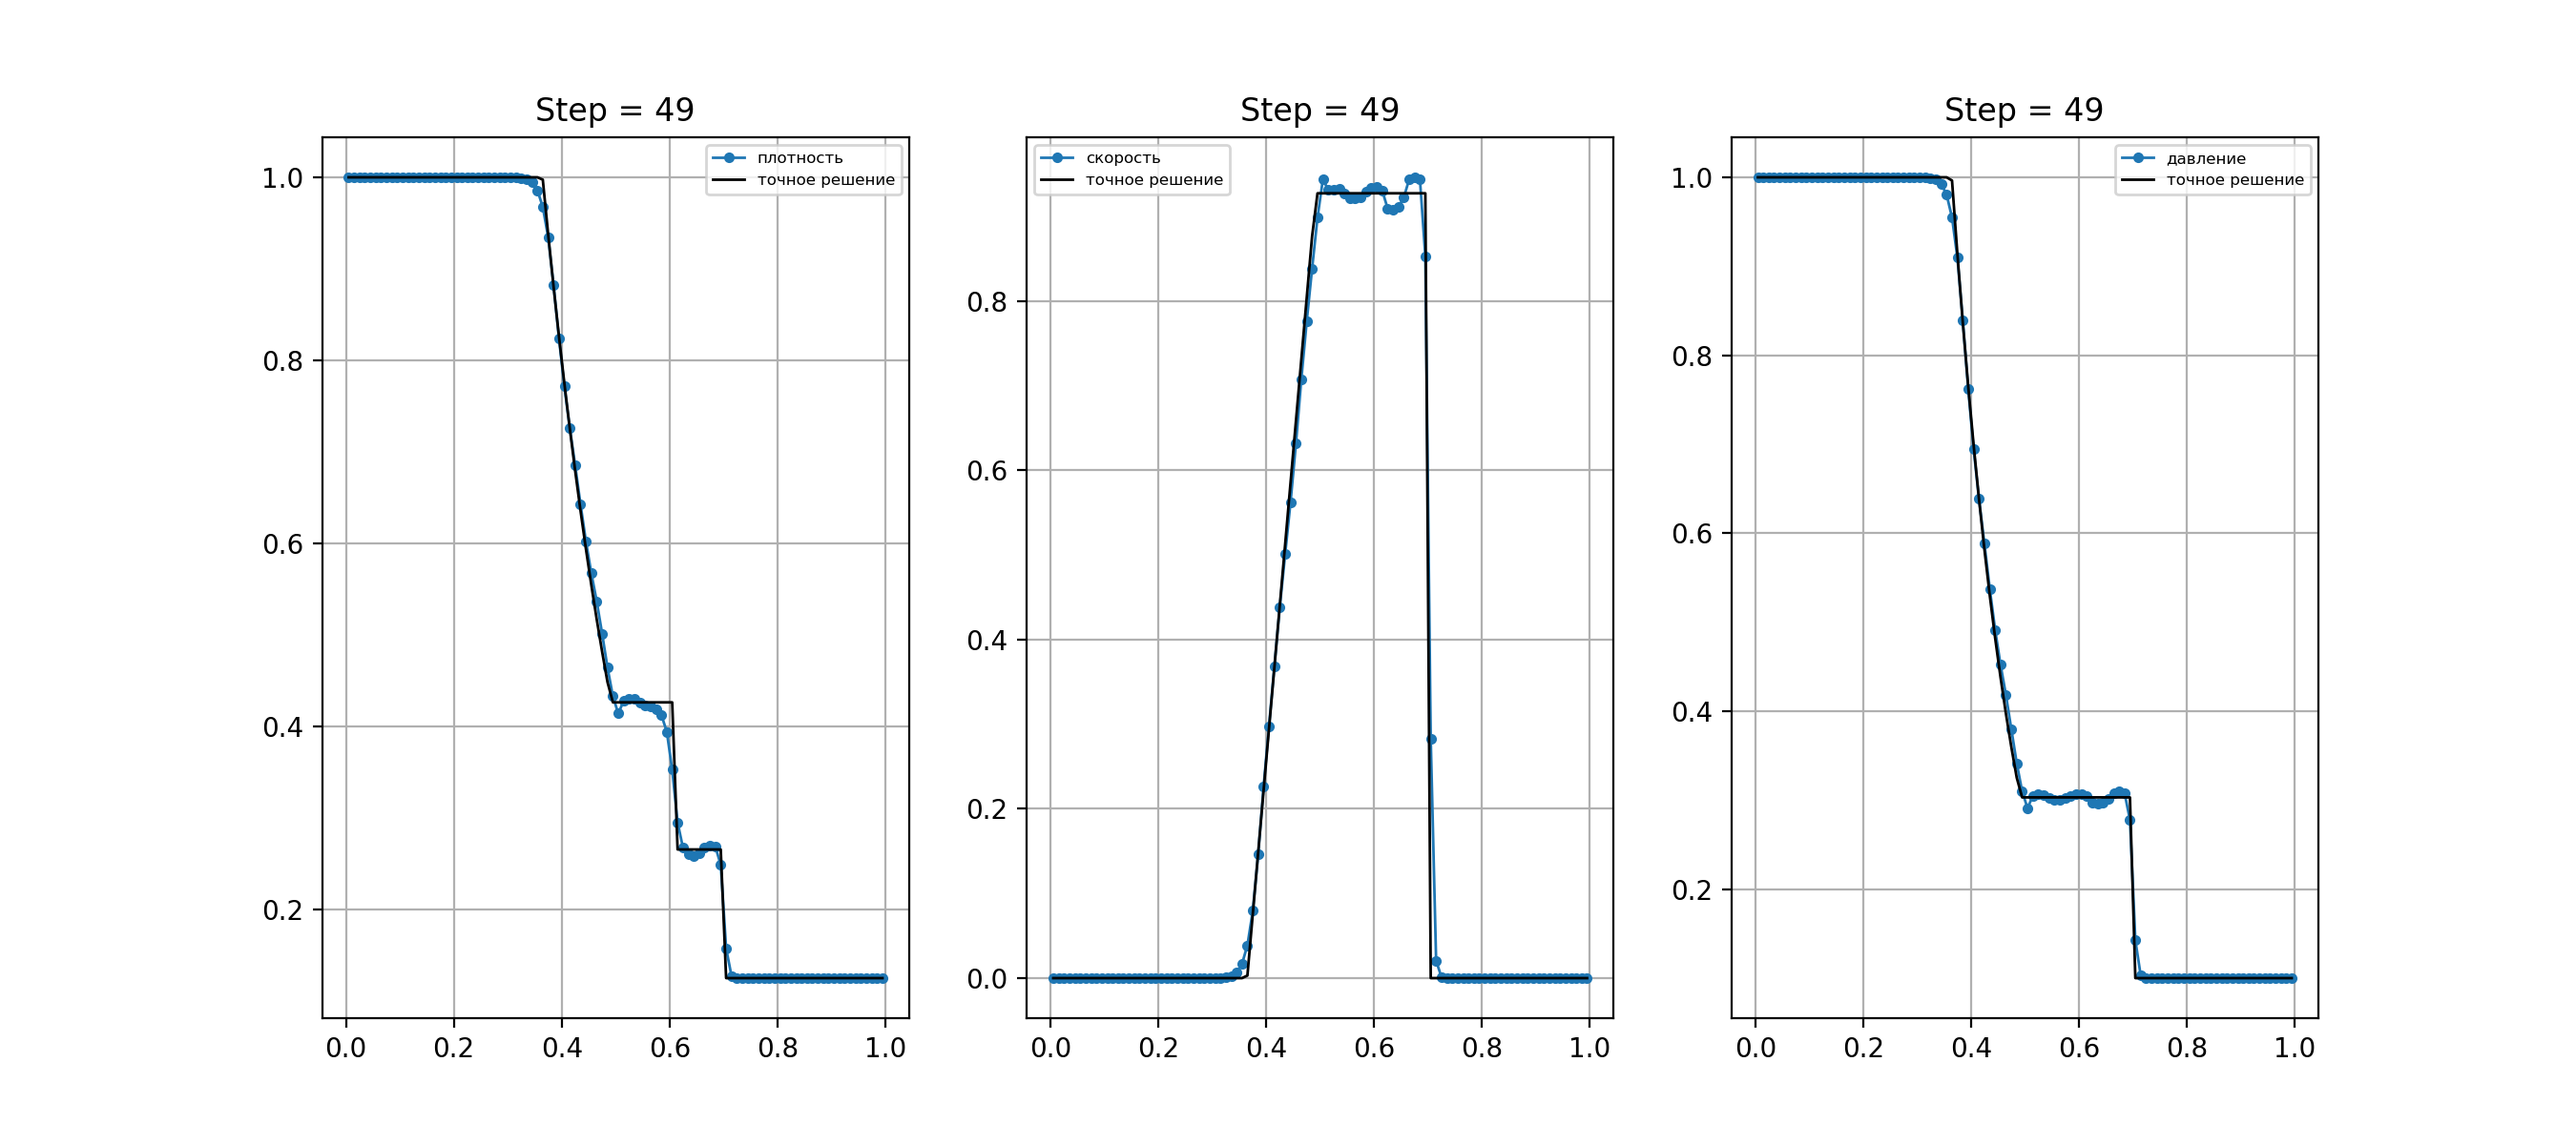
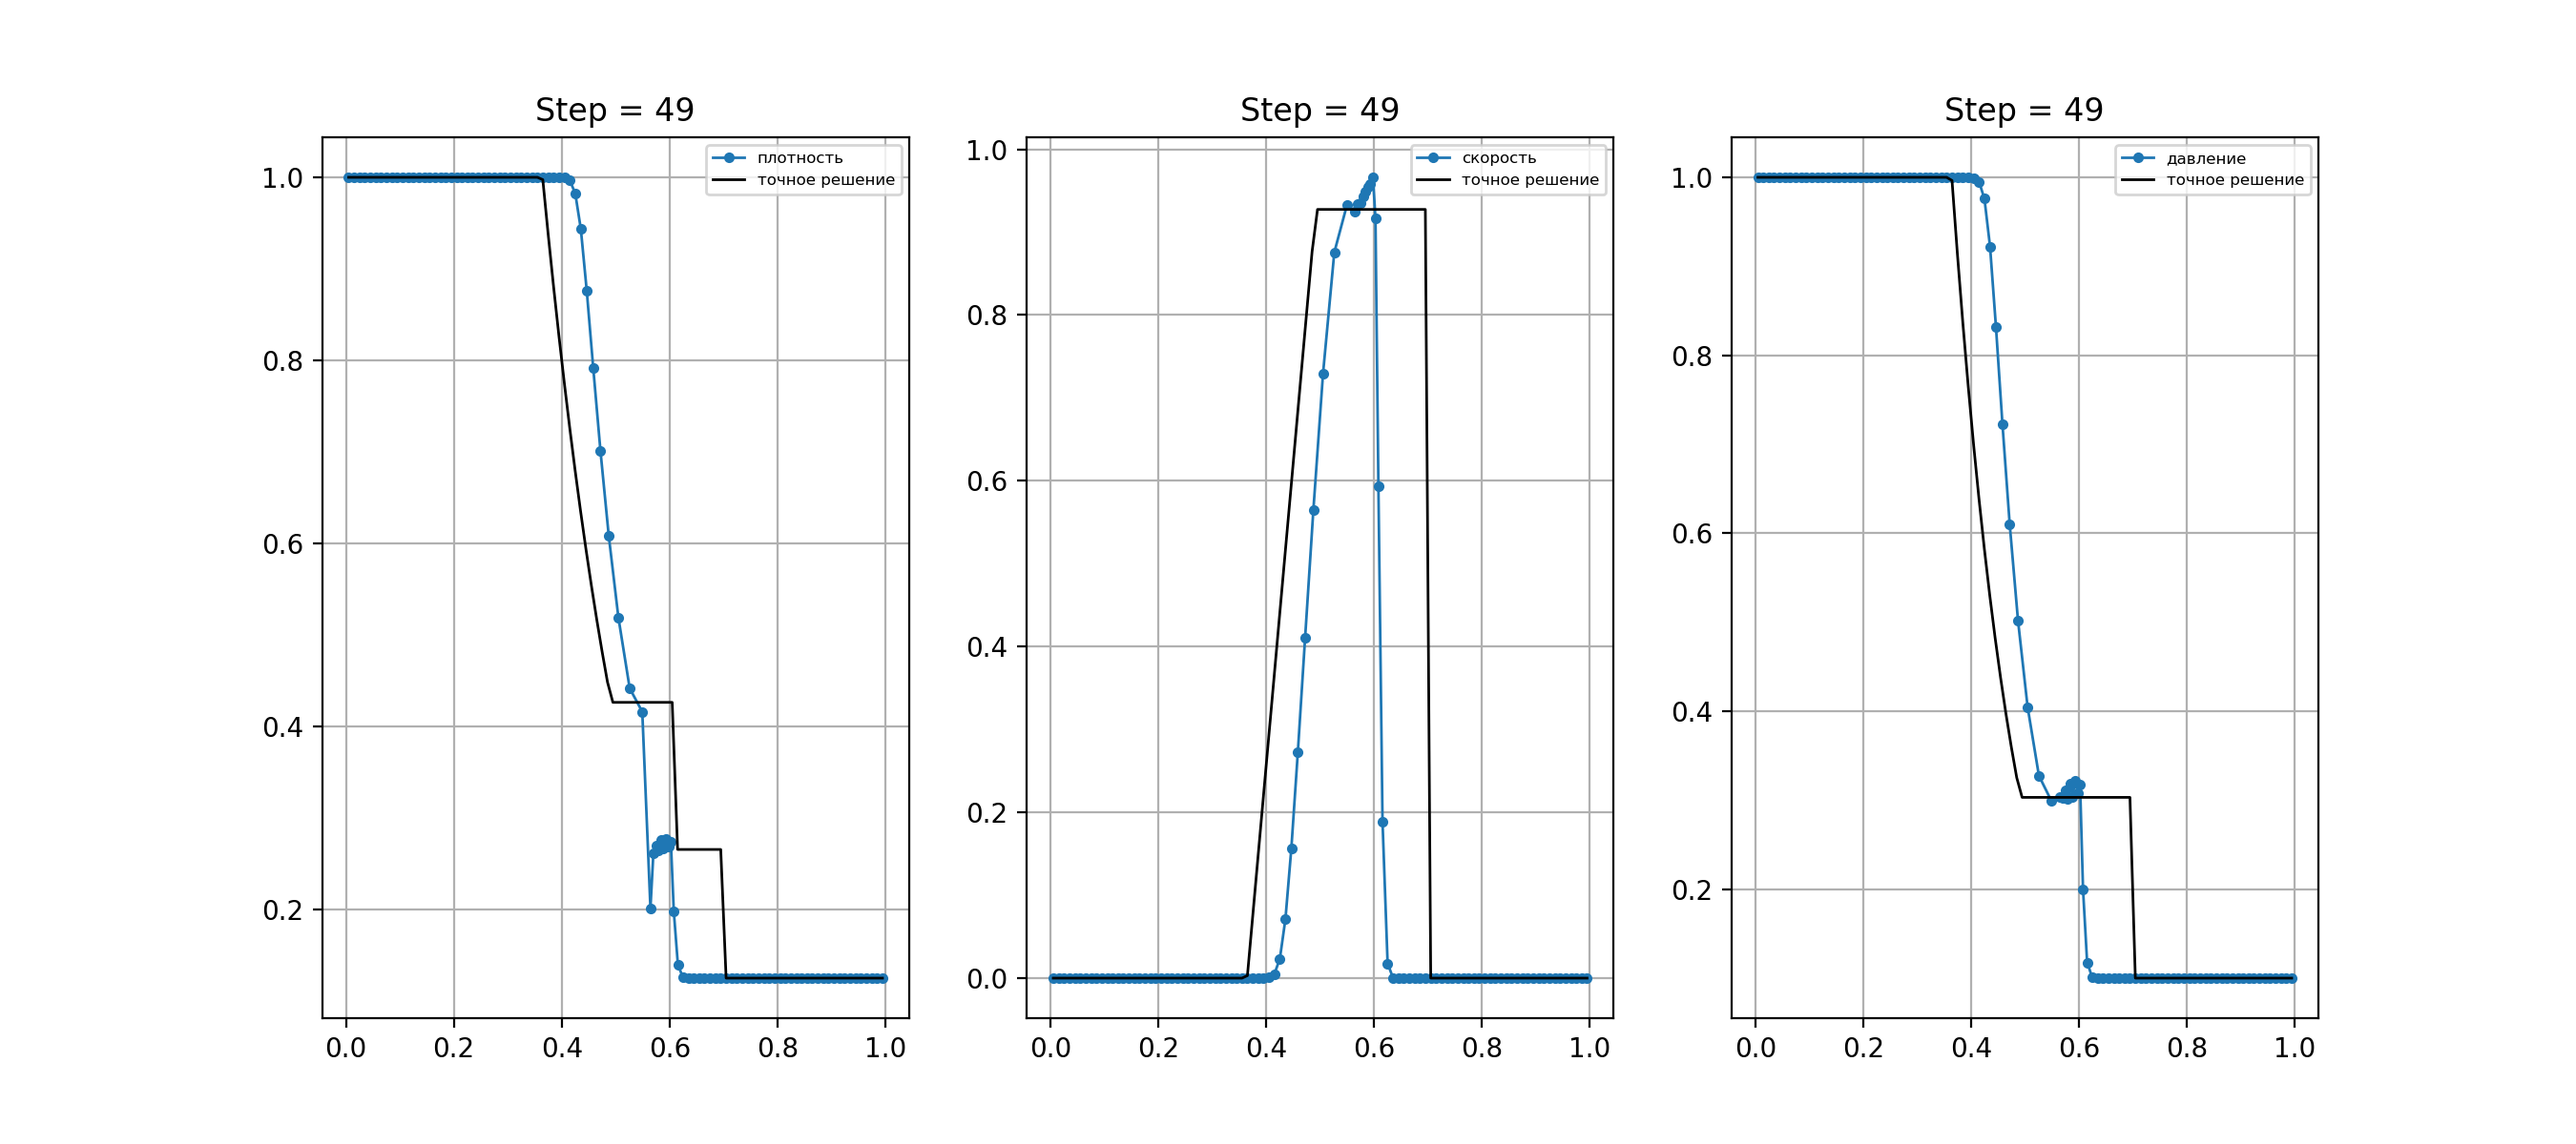
Lagrange works again, Godunov doesn't

diff --git a/source/Parameters.cpp b/source/Parameters.cpp
@@ -54,7 +54,6 @@ Parameters::Parameters(std::string file_name) {
 	};
 	
 	InitialPreset ic_test = IC_CUSTOM;
-	ArtificialViscosity viscosity_type = V_NONE;
 	
 	for (unsigned int i = 0; i < 2; ++i) boundaries[i].b_preset = B_CUSTOM;
 	
@@ -79,13 +78,13 @@ Parameters::Parameters(std::string file_name) {
 			else if (strcmp(var_type.c_str(), "unsignedint") == 0)
 			    *(unsigned int*)vars[var_name] = std::stoi(var_value);
 
-        	else if (strcmp(var_type.c_str(), "Boundary") == 0) // specific wall_type case
+	        	else if (strcmp(var_type.c_str(), "Boundary") == 0) // specific wall_type case
 				get_next_substr_between_sep(args_control, line, sep, curr_sep_pos);
 
 			else if (strcmp(var_type.c_str(), "InitialPreset") == 0) // specific initial_condition case
 				ic_preset = ic_type_map[var_value];
 
-			else if (strcmp(var_type.c_str(), "ArtificialViscosity") == 0) // specific viscosity case
+			else if (strcmp(var_type.c_str(), "ArtificialViscosity") == 0) // specific viscosity cases
 				viscosity_type = visc_type_map[var_value];
 
 			else if (strcmp(var_type.c_str(), "Reconstruction") == 0) // specific reconstruction case
@@ -100,53 +99,53 @@ Parameters::Parameters(std::string file_name) {
 			else if (strcmp(var_type.c_str(), "string") == 0)
 				*(std::string*)vars[var_name] = var_value;
 
-            else {
-				std::cerr << "Variable type is not identified: " << var_name << " " << var_type << std::endl;
-				exit(1);
-			}
-
-            if (strcmp(args_control.c_str(), "{") == 0) { // assign wall values if provided
-				std::string opening, arg_name, arg_value;
-				for (std::getline(fin, line);; std::getline(fin, line)) {
-					curr_sep_pos = 0;
-					get_next_substr_between_sep(opening, line, sep, curr_sep_pos);
-					if (strcmp(opening.c_str(), "}") == 0) break;
-					get_next_substr_between_sep(arg_name, line, sep, curr_sep_pos);
-					get_next_substr_between_sep(arg_value, line, sep, curr_sep_pos);
-					if (strcmp(var_type.c_str(), "Boundary") == 0) {
-						if (arg_name == "type")
-							boundaries[std::stoul(var_value)].b_type = boundary_type_map[arg_value];
-						
-						else if (arg_name == "T")
-							boundaries[std::stoul(var_value)].T = std::stod(arg_value);
-						
-						else if (arg_name == "v_x")
-							boundaries[std::stoul(var_value)].v_x = std::stod(arg_value);
-						
-						else {
-							std::cerr << "Boundary " << var_value << " arg type not found (" << arg_name << ")" << std::endl;
-							exit(1);
+	            else {
+					std::cerr << "Variable type is not identified: " << var_name << " " << var_type << std::endl;
+					exit(1);
+				}
+	
+	            if (strcmp(args_control.c_str(), "{") == 0) { // assign wall values if provided
+					std::string opening, arg_name, arg_value;
+					for (std::getline(fin, line);; std::getline(fin, line)) {
+						curr_sep_pos = 0;
+						get_next_substr_between_sep(opening, line, sep, curr_sep_pos);
+						if (strcmp(opening.c_str(), "}") == 0) break;
+						get_next_substr_between_sep(arg_name, line, sep, curr_sep_pos);
+						get_next_substr_between_sep(arg_value, line, sep, curr_sep_pos);
+						if (strcmp(var_type.c_str(), "Boundary") == 0) {
+							if (arg_name == "type")
+								boundaries[std::stoul(var_value)].b_type = boundary_type_map[arg_value];
+							
+							else if (arg_name == "T")
+								boundaries[std::stoul(var_value)].T = std::stod(arg_value);
+							
+							else if (arg_name == "v_x")
+								boundaries[std::stoul(var_value)].v_x = std::stod(arg_value);
+							
+							else {
+								std::cerr << "Boundary " << var_value << " arg type not found (" << arg_name << ")" << std::endl;
+								exit(1);
+							}
+							std::cout << "Boundary " << var_value << " : " << arg_name << "," << arg_value << std::endl;
 						}
-						std::cout << "Boundary " << var_value << " : " << arg_name << "," << arg_value << std::endl;
 					}
 				}
+				std::cout << var_type << " " << var_name << " " << var_value << std::endl;
 			}
-			std::cout << var_type << " " << var_name << " " << var_value << std::endl;
+			dx = (x_end - x_start) / nx;
+			nx_all = nx + 2 * nx_fict;
+			Cv = R / (gamma - 1.0);
+			Cp = Cv + R;
+			
+			if (ic_test != IC_CUSTOM) {
+				ic_preset = InitialPreset(ic_test);
+				for (unsigned int i = 0; i < 2; ++i) {
+					boundaries[i].b_preset = BoundaryPreset(ic_test); // it's easier to specify further boundary values in solver,
+											  // than to add many elif cases here //
+											  // assigned boundary values don't matter
+											  // i'm sorry
+			}
 		}
-		dx = (x_end - x_start) / nx;
-		nx_all = nx + 2 * nx_fict;
-		Cv = R / (gamma - 1.0);
-		Cp = Cv + R;
-		
-		if (ic_test != IC_CUSTOM) {
-			ic_preset = InitialPreset(ic_test);
-			for (unsigned int i = 0; i < 2; ++i) {
-				boundaries[i].b_preset = BoundaryPreset(ic_test); // it's easier to specify further boundary values in solver,
-										  // than to add many elif cases here //
-										  // assigned boundary values don't matter
-										  // i'm sorry
-			};
-		};
 	}
 	else {
 		std::cerr << "Can't open the file: " << file_name << std::endl;
@@ -155,27 +154,27 @@ Parameters::Parameters(std::string file_name) {
 	fin.close();
 };
 
-Parameters::Parameters(const Parameters& rhs):
-	x_start(rhs.x_start),
-	x_end(rhs.x_end),
-	nx(rhs.nx),
-	dx(rhs.dx),
-	nx_fict(rhs.nx_fict),
-	nx_all(rhs.nx_all),
-	CFL(rhs.CFL),
-	nt(rhs.nt),
-	ic_preset(rhs.ic_preset),
-	viscosity_type(rhs.viscosity_type),
-	mu0(rhs.mu0),
-	reconstruction_type(rhs.reconstruction_type),
-	time_algo(rhs.time_algo),
-	flux_scheme(rhs.flux_scheme),
-	is_conservative(rhs.is_conservative),
-	gamma(rhs.gamma),
-	Cv(rhs.Cv),
-	Cp(rhs.Cp),
-	nt_write(rhs.nt_write),
-	write_file(rhs.write_file)
-{
-	std::copy(std::begin(rhs.boundaries), std::end(rhs.boundaries), std::begin(boundaries));
-};
+// Parameters::Parameters(const Parameters& rhs):
+// 	x_start(rhs.x_start),
+// 	x_end(rhs.x_end),
+// 	nx(rhs.nx),
+// 	dx(rhs.dx),
+// 	nx_fict(rhs.nx_fict),
+// 	nx_all(rhs.nx_all),
+// 	CFL(rhs.CFL),
+// 	nt(rhs.nt),
+// 	ic_preset(rhs.ic_preset),
+// 	viscosity_type(rhs.viscosity_type),
+// 	mu0(rhs.mu0),
+// 	reconstruction_type(rhs.reconstruction_type),
+// 	time_algo(rhs.time_algo),
+// 	flux_scheme(rhs.flux_scheme),
+// 	is_conservative(rhs.is_conservative),
+// 	gamma(rhs.gamma),
+// 	Cv(rhs.Cv),
+// 	Cp(rhs.Cp),
+// 	nt_write(rhs.nt_write),
+// 	write_file(rhs.write_file)
+// {
+// 	std::copy(std::begin(rhs.boundaries), std::end(rhs.boundaries), std::begin(boundaries));
+// };

diff --git a/source/main.cpp b/source/main.cpp
@@ -7,7 +7,9 @@ int main(int argv, char** argc)
 {
 	std::string params_file = "params.txt";
 	Parameters par(params_file); // Parameters initialization by file;
-	Solver_Lagrange1D solver(par);
+	par.print();
+//	Solver_Lagrange1D solver(par);
+	Solver_Godunov1D solver(par);
 	if (argv > 1)
 		return 0;
 	system("python Post.py");

diff --git a/headers/Parameters.h b/headers/Parameters.h
@@ -70,8 +70,10 @@ struct Parameters {
 	unsigned int nt_write;
 	std::string write_file;
 
+	inline void print() {std::cout << viscosity_type << std::endl;}
+	Parameters(const Parameters&) = default;
 	Parameters(std::string);
-	Parameters(const Parameters& rhs);
+//	Parameters(const Parameters& rhs);
 };
 
 #endif
